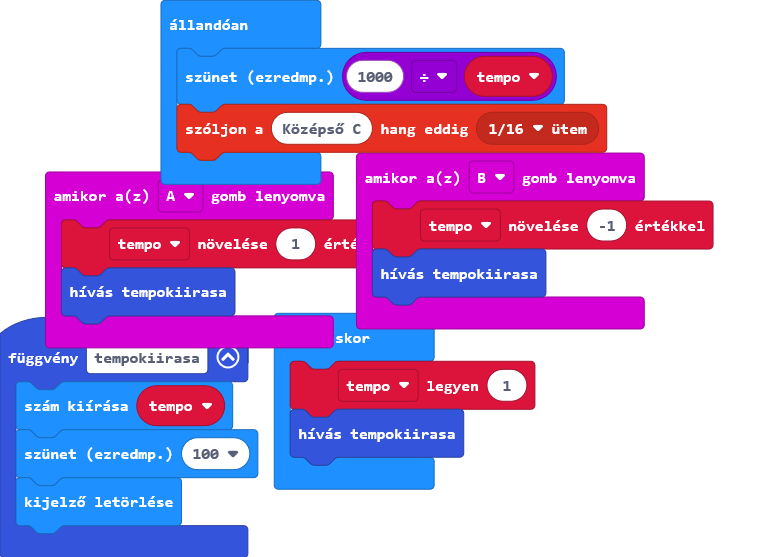
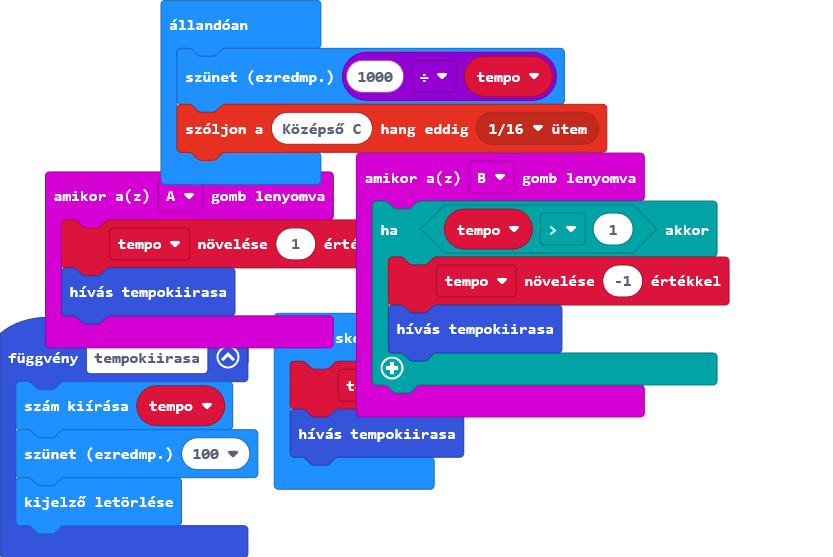
Update main.blocks, main.ts

Changed region(s): [[0.0, 0.0, 0.932, 0.9461], [0.2706, 0.9461, 0.3307, 1.0], [0.0, 0.763, 0.0301, 0.7935]]

diff --git a/main.ts b/main.ts
@@ -8,8 +8,10 @@ input.onButtonPressed(Button.A, function () {
     tempokiirasa()
 })
 input.onButtonPressed(Button.B, function () {
-    tempo += -1
-    tempokiirasa()
+    if (tempo > 1) {
+        tempo += -1
+        tempokiirasa()
+    }
 })
 let tempo = 0
 tempo = 1
